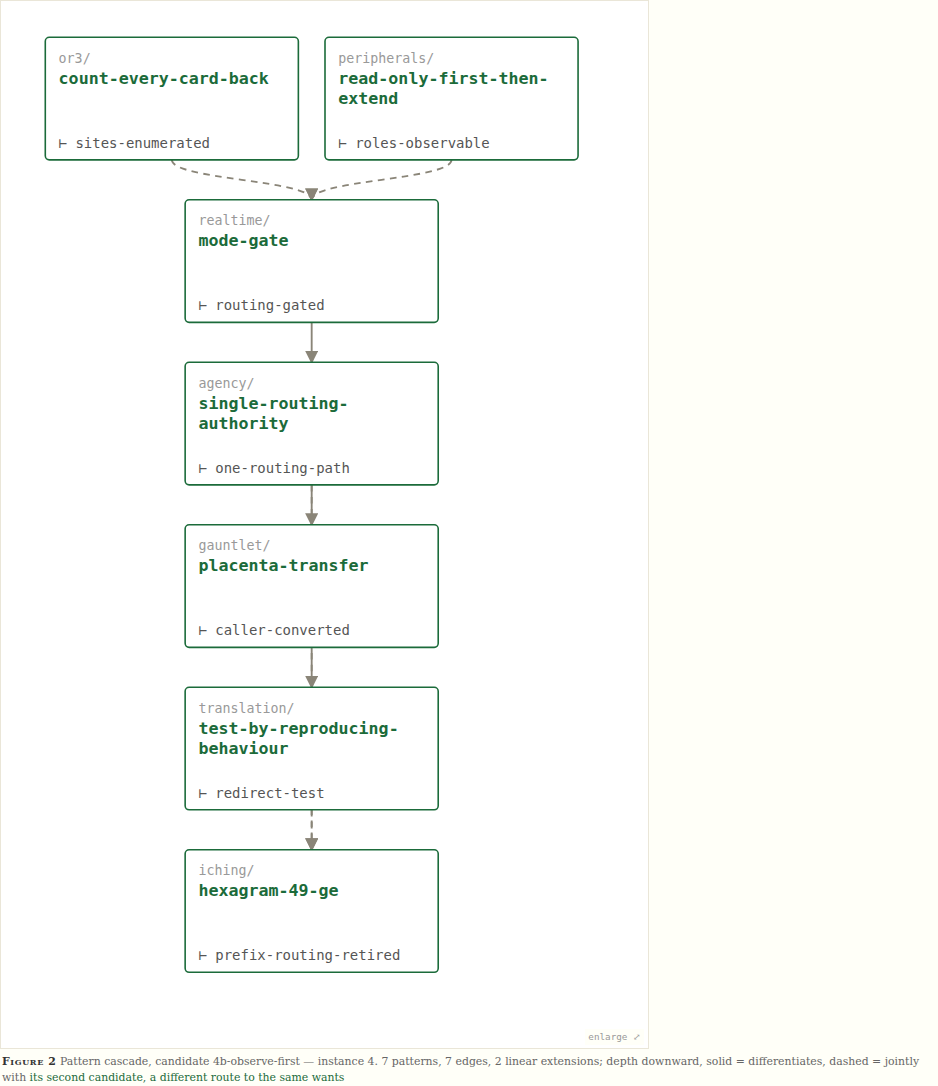
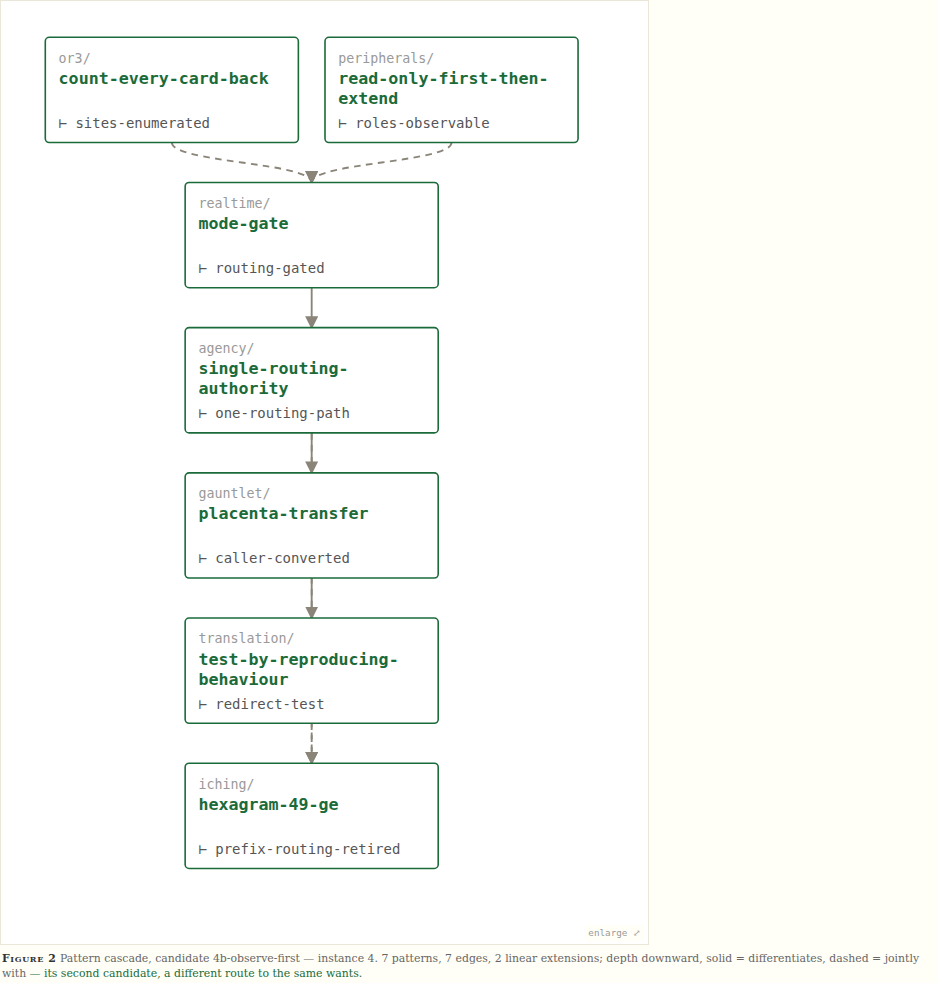
Figure captions corrected, and the produces line stops truncating
Two of claude-10's notes on 4e5a1350.

Figure 5's caption still justified the instance with "a cascade whose
construction forks and does not rejoin", which was the reason I gave for
three missing meets that turned out to be an artefact of strict descendants.
With reflexive below, instance 5 has none, so the caption was arguing from a
retracted finding. It now says what instance 5 is actually the extreme case
of: the widest list-kernel spread in the set, p(all wants) 0.168 to 0.797
across 48 linear extensions. Figure 7's was checked and is unaffected -- it
never mentioned meets -- and now cites its own number, co-application 0.853
where every linear extension reaches 0. The two notes' bodies already carried
the correction; only the captions lagged.

The cascade boxes' produces line joined its tokens and truncated at 22
characters ("one-producer, protocol…"). A truncated token name is not a token
name, which is the same argument that moved the wiring's names inside its
boxes, so the cascade boxes now print one produced token per line and their
height follows the count. Zero truncations, zero clipped text, zero overlaps.

A caption's :why also ran straight on from the legend with no separator; it
is set off by an em dash now.

On the token rows at 0.80 of body size: fair to put to Joe rather than settle
between us. What the numbers would be if the answer is "no": the wiring
figures are 690px wide at 13.3px rows; bringing those rows to 16.6px scales
[…]

diff --git a/scripts/seams_page.py b/scripts/seams_page.py
@@ -86,7 +86,13 @@ def svg(b, vertical=False):
     widest = max(len(v) for v in layers.values())
     pos = {}
     if vertical:
-        COLW, ROWH, BW, BH = 210, 122, 190, 92
+        # Height follows the produced-token count: one token per line, because
+        # a single joined line truncated ("one-producer, protocol…") and a
+        # truncated token name is not a token name.
+        maxprod = max(len(q["produces"]) for q in pats.values())
+        COLW, BW = 210, 190
+        BH = 66 + 13 * maxprod
+        ROWH = BH + 30
         lanes = widest + (1 if open_holes else 0)
         width = COLW * lanes + 56
         height = ROWH * depths + 44
@@ -128,7 +134,7 @@ def svg(b, vertical=False):
             f'<title>{html.escape(e["kind"])} — {html.escape(e["via"])}</title></path>')
     for pid, (x, y) in pos.items():
         p = pats[pid]
-        prod = ", ".join(short(t) for t in p["produces"])
+        prods = [short(t) for t in sorted(p["produces"])]
         lines = wrap_id(short(pid))
         ids = "".join(
             f'<text x="{x+10}" y="{y+35+i*15}" class="nid">{html.escape(l)}</text>'
@@ -139,9 +145,12 @@ def svg(b, vertical=False):
             f'<rect x="{x}" y="{y}" width="{BW}" height="{BH}" rx="3" fill="#fff" '
             f'stroke="{C["pattern"]}" stroke-width="1.2"/>'
             f'<text x="{x+10}" y="{y+19}" class="nfam">{html.escape(pid.split("/")[0])}/</text>'
-            + ids +
-            f'<text x="{x+10}" y="{y+BH-9}" class="nprod">⊢ '
-            f'{html.escape(prod[:22] + ("…" if len(prod) > 22 else ""))}</text></g>')
+            + ids
+            + "".join(
+                f'<text x="{x+10}" y="{y+BH-11-13*(len(prods)-1-i)}" class="nprod">'
+                f'{"⊢ " if i == 0 else "  "}{html.escape(t)}</text>'
+                for i, t in enumerate(prods))
+            + "</g>")
     for k, h in enumerate(h for h in (b.get("holes") or [])
                           if h.get("status") != "closed"):
         if vertical:

diff --git a/scripts/seams_mission_page.py b/scripts/seams_mission_page.py
@@ -263,7 +263,7 @@ def figure_html(key, svg, cap, num, anchor_id, full_width=False):
             f'<figcaption><span class="fignum">Figure {num}</span> '
             f'{html.escape(cap.get("what", key))} — instance {cap.get("instance", "?")}. '
             f'{html.escape(cap.get("sub", ""))}'
-            + (f' <span class="figwhy">{html.escape(cap["why"])}</span>'
+            + (f' <span class="figwhy">— {html.escape(cap["why"])}.</span>'
                if cap.get("why") else "")
             + (f'<ul class="figmarks">{marks}</ul>' if marks else "")
             + '</figcaption></figure>')
